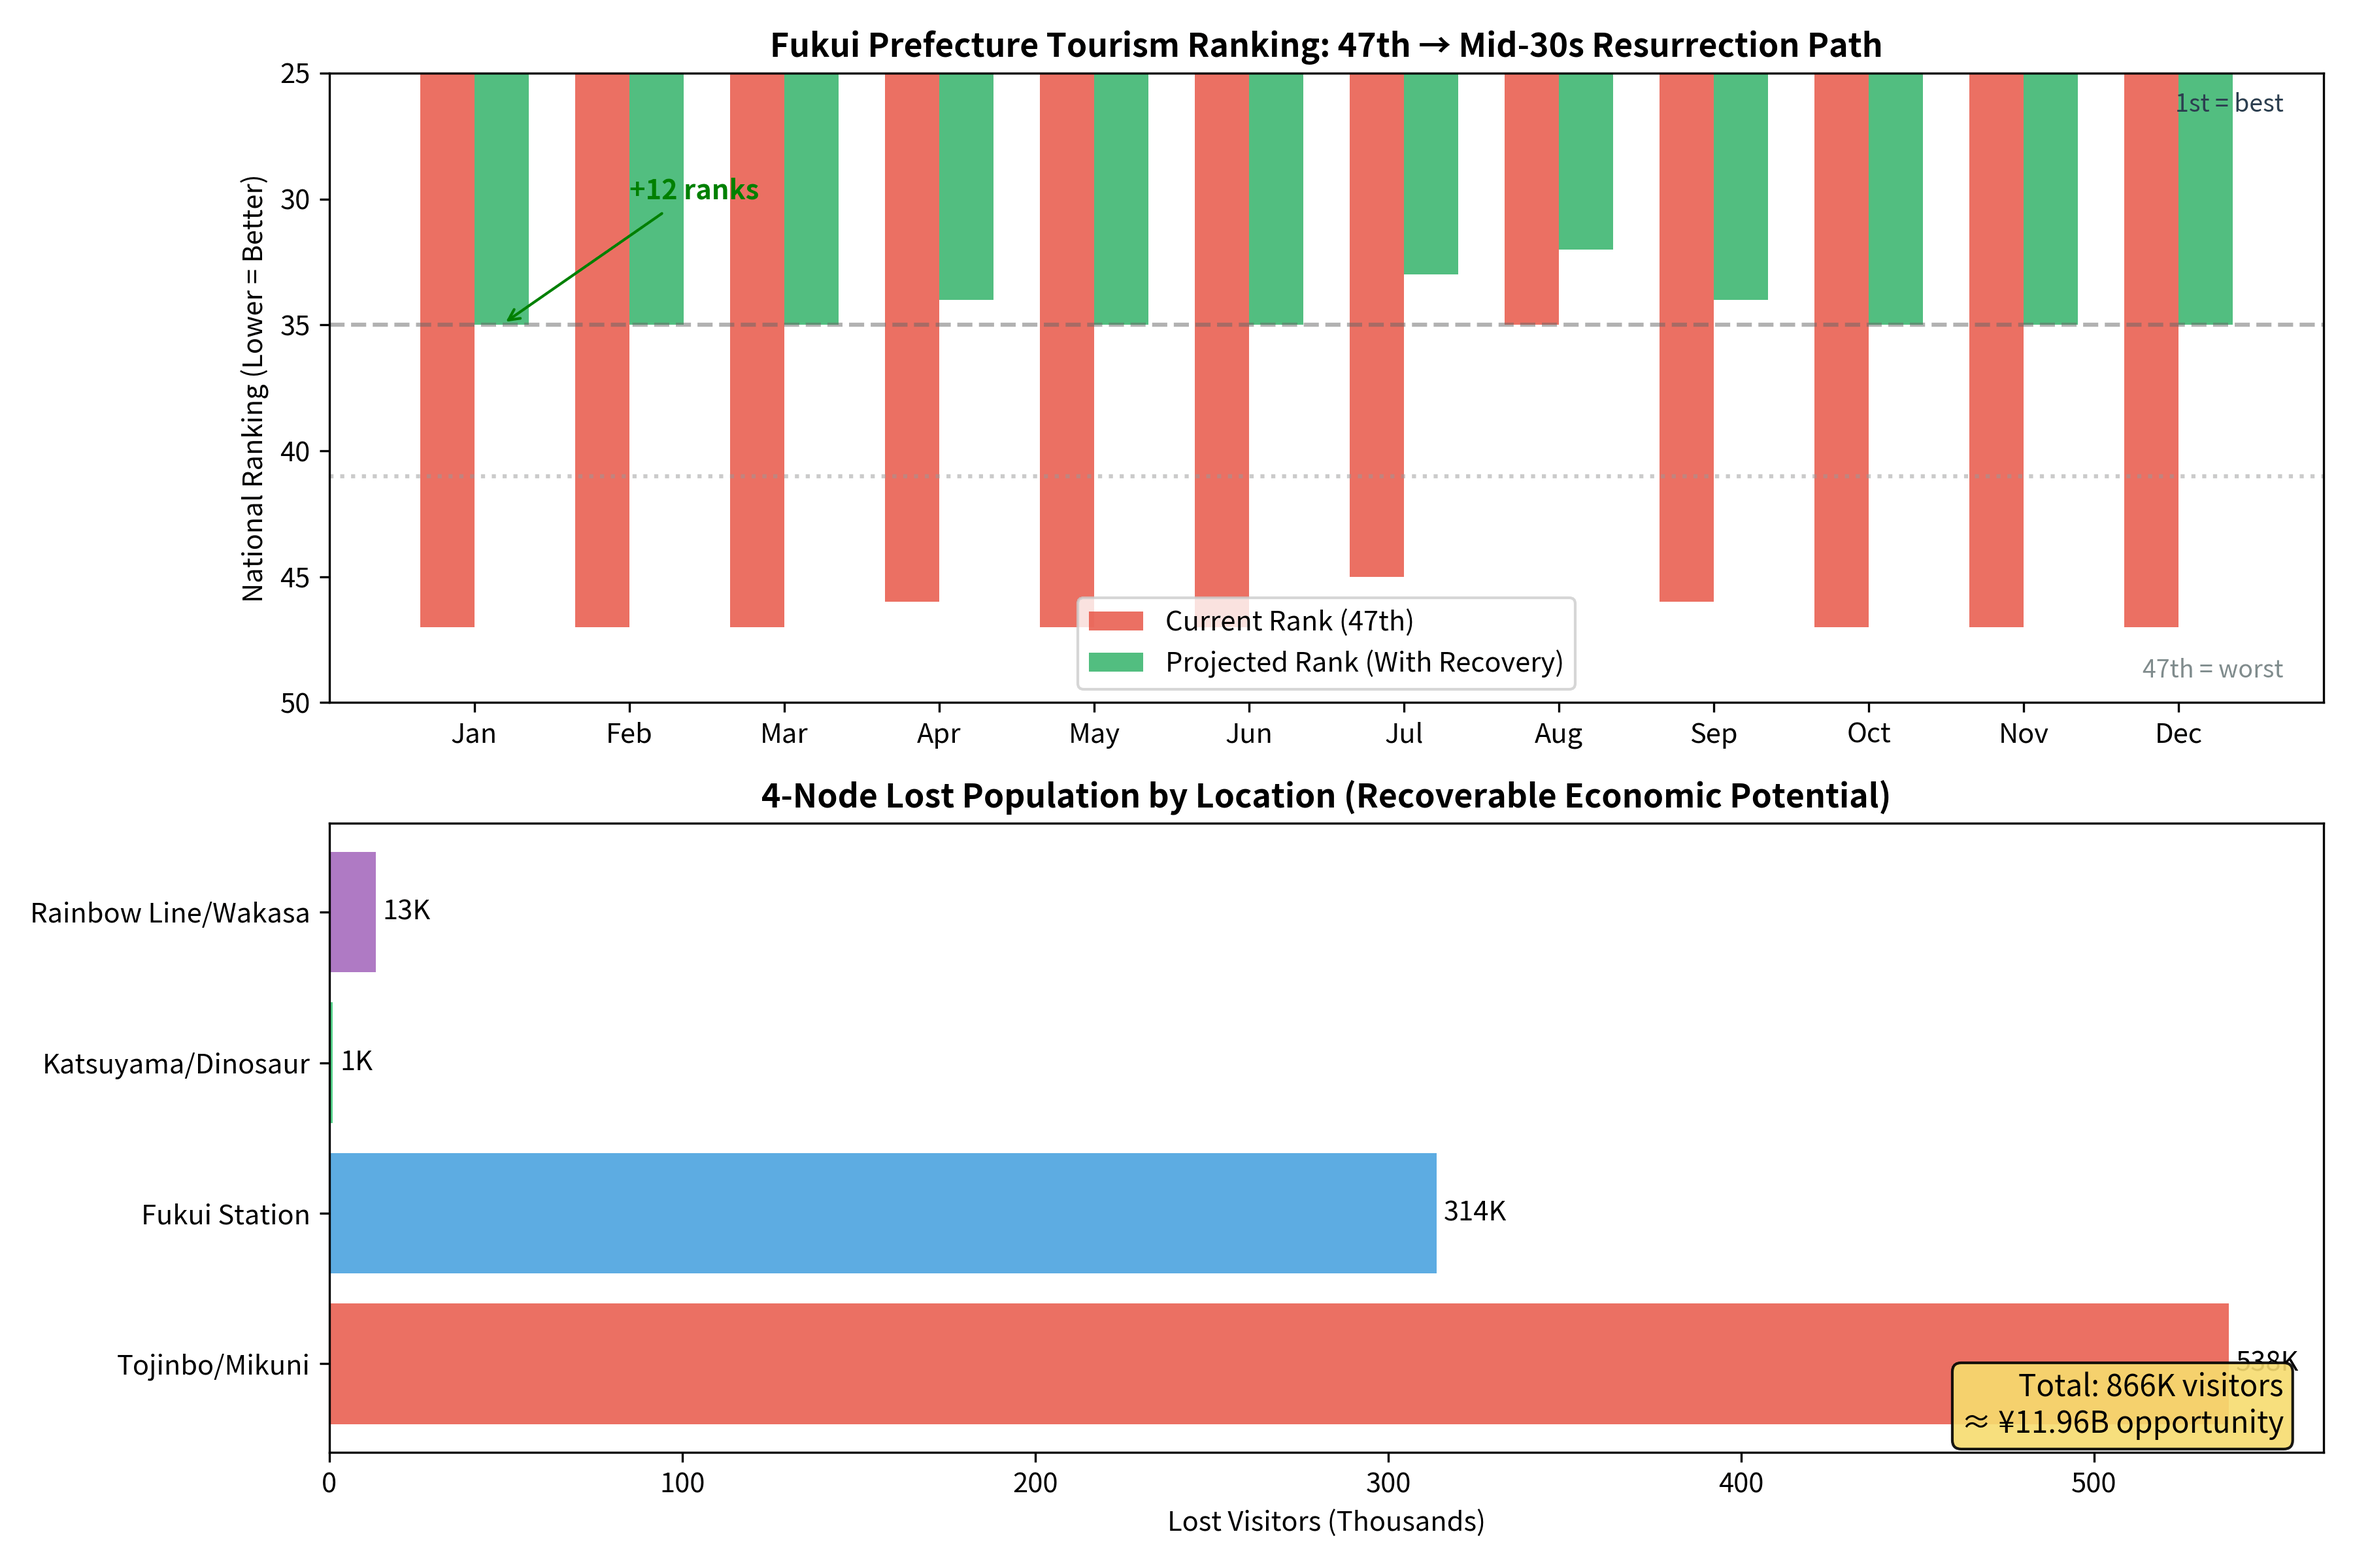
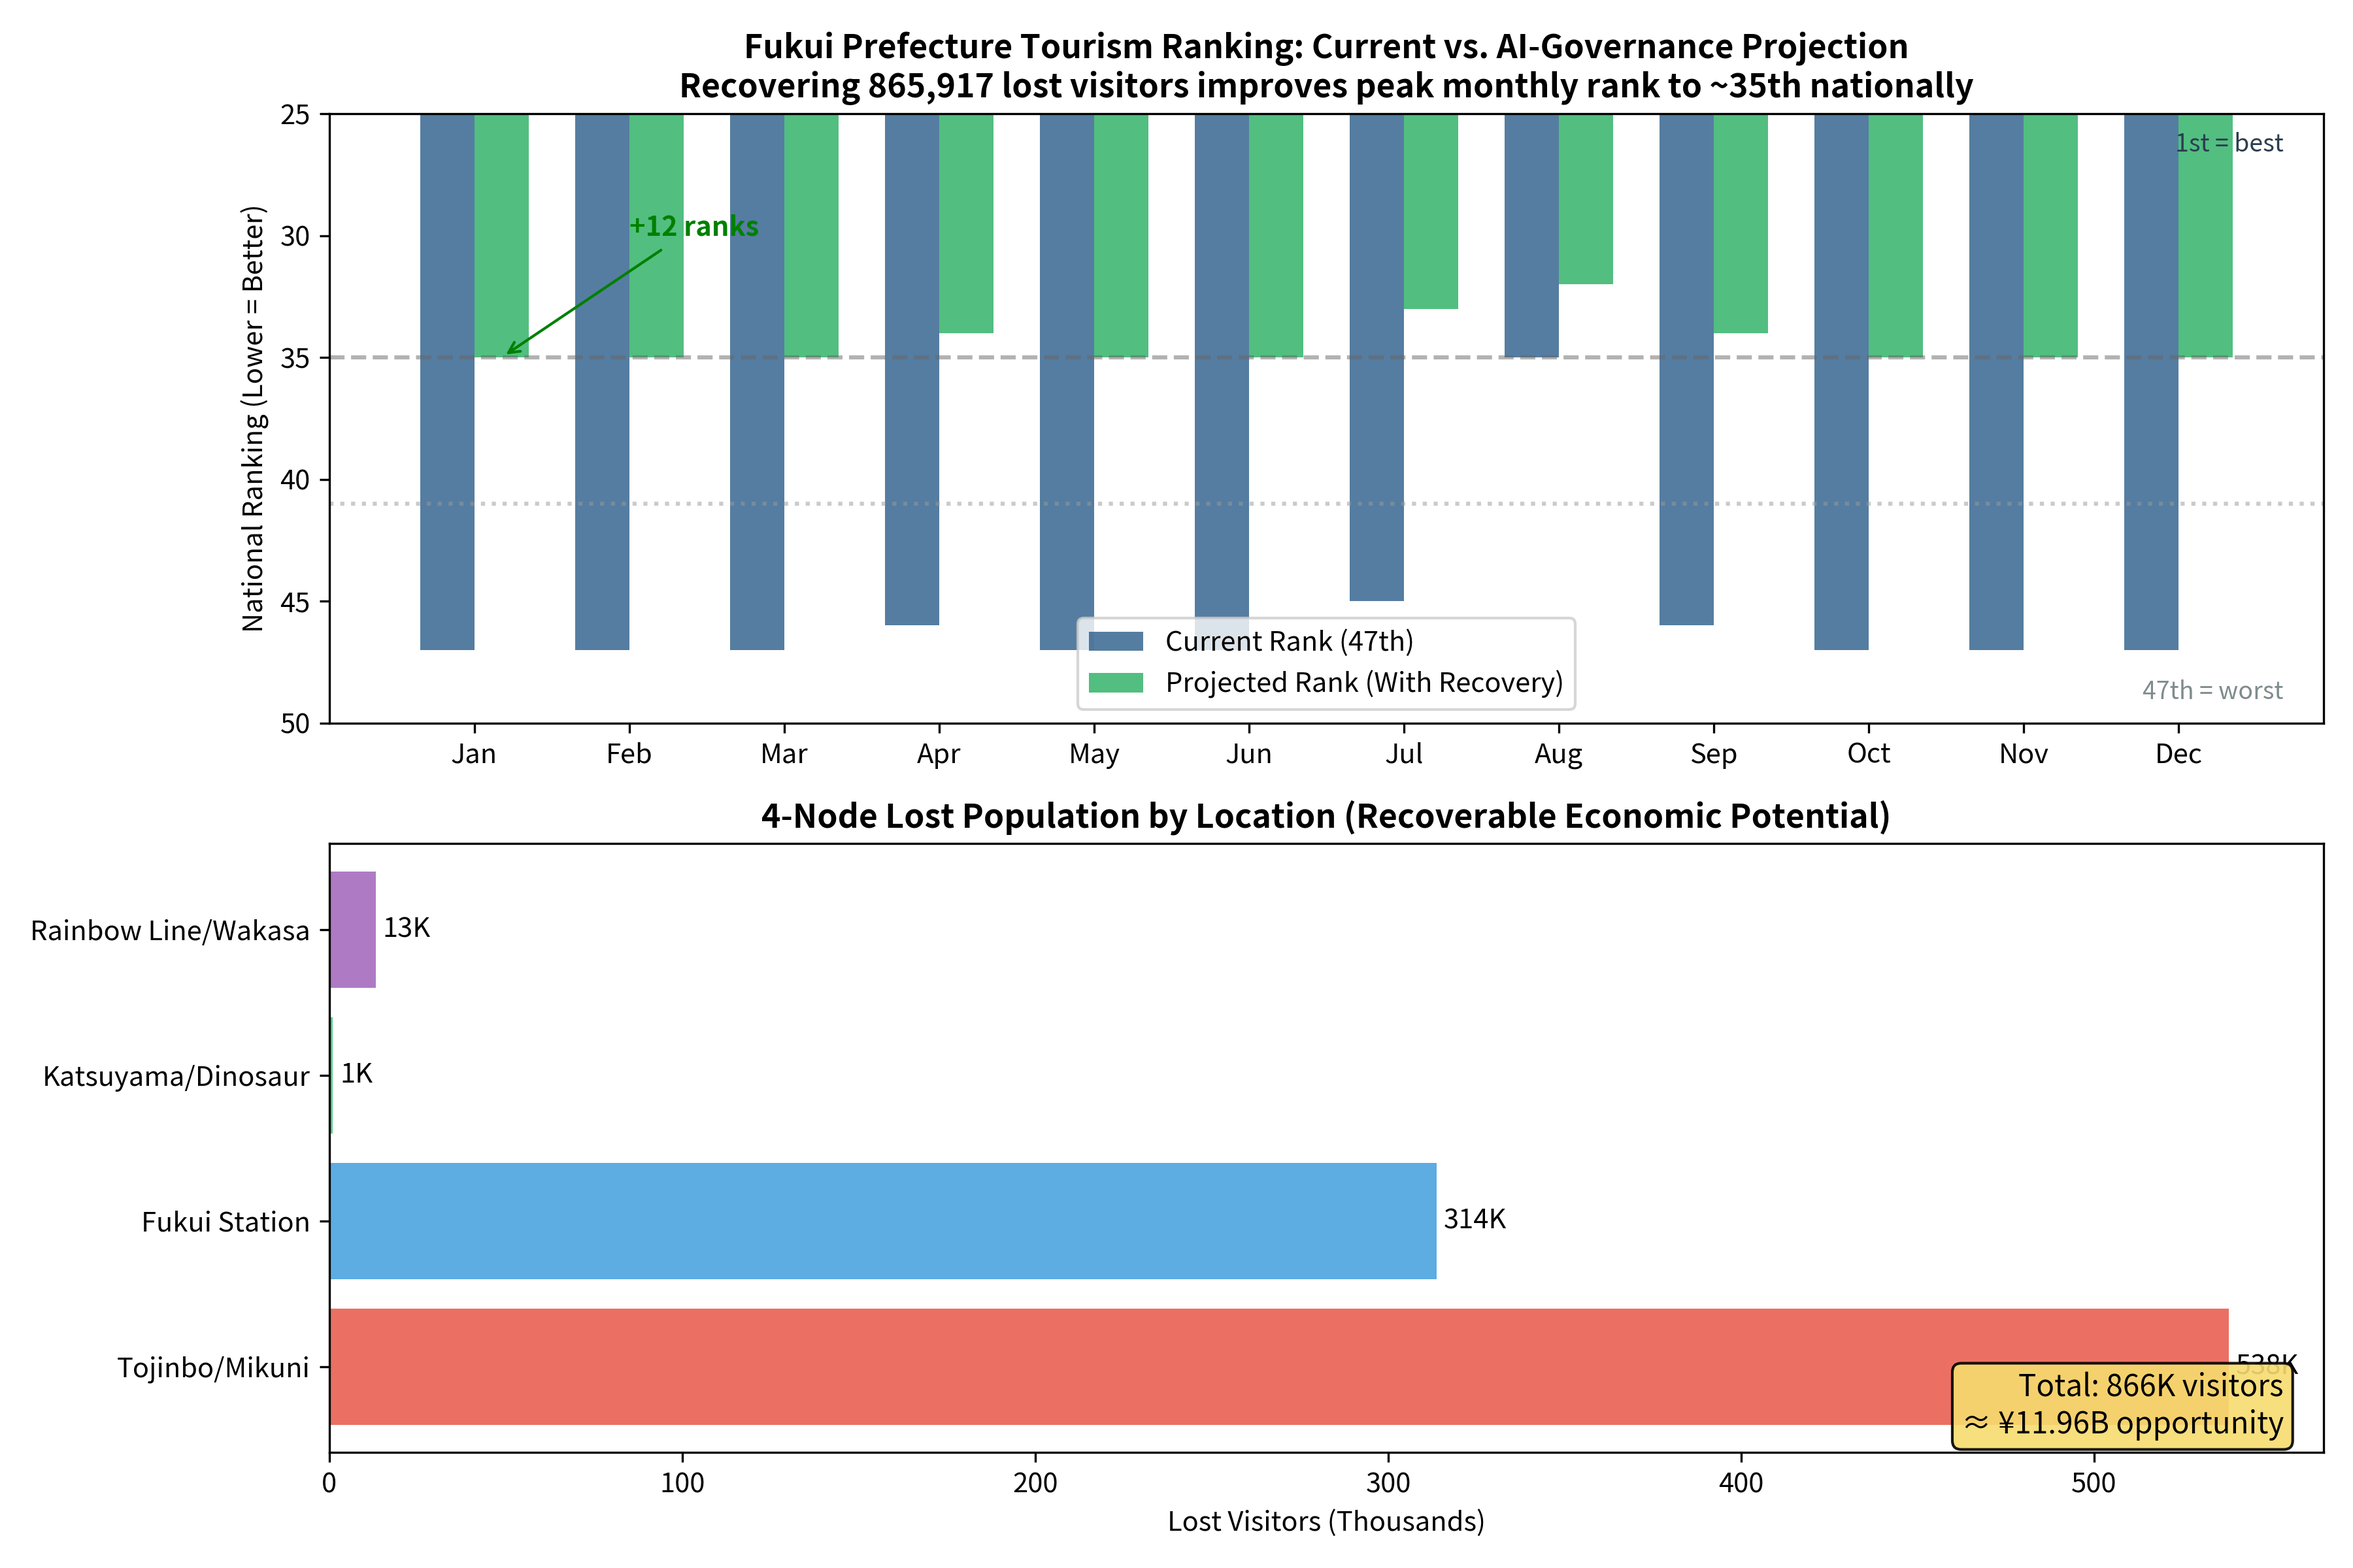
Restore blue colour scheme, fix inaccurate title, remove fig09 duplicate
- Change current-rank bars from red (#E74C3C) back to steel blue (#2B5C8A)
- Fix title from 'mean winter rank → ~35th' (wrong; mean is 45.7) to
  'peak monthly rank to ~35th' which accurately reflects the simulation
- Remove fig09_rank_projection.png/.ja.png — paper_fig3 is now the
  canonical output copied from the same function, no duplicate needed

diff --git a/src/visualizer.py b/src/visualizer.py
@@ -953,13 +953,14 @@ def plot_rank_resurrection_projection(
     x = np.arange(len(months))
     width = 0.35
     
-    bars1 = ax1.bar(x - width/2, current_ranks, width, label="Current Rank (47th)", 
-                   color="#E74C3C", alpha=0.8)
+    bars1 = ax1.bar(x - width/2, current_ranks, width, label="Current Rank (47th)",
+                   color="#2B5C8A", alpha=0.8)
     bars2 = ax1.bar(x + width/2, projected_ranks, width, label="Projected Rank (With Recovery)", 
                    color="#27AE60", alpha=0.8)
     
     ax1.set_ylabel("National Ranking (Lower = Better)")
-    ax1.set_title("Fukui Prefecture Tourism Ranking: 47th → Mid-30s Resurrection Path",
+    ax1.set_title("Fukui Prefecture Tourism Ranking: Current vs. AI-Governance Projection\n"
+                 "Recovering 865,917 lost visitors improves peak monthly rank to ~35th nationally",
                  fontsize=12, fontweight="bold")
     ax1.set_xticks(x)
     ax1.set_xticklabels(months)
@@ -1011,7 +1012,8 @@ def plot_rank_resurrection_projection(
     # JA version
     months_ja = ["1月", "2月", "3月", "4月", "5月", "6月",
                  "7月", "8月", "9月", "10月", "11月", "12月"]
-    ax1.set_title("福井県観光ランキング：47位→35位圏への復活パス",
+    ax1.set_title("福井県観光ランキング：現状 vs. AIガバナンス予測\n"
+                 "86.6万人回復により月別ピーク順位が全国35位圏に改善",
                  fontsize=12, fontweight="bold")
     ax1.set_ylabel("全国ランキング（低い=良い）")
     ax1.set_xticklabels(months_ja)
